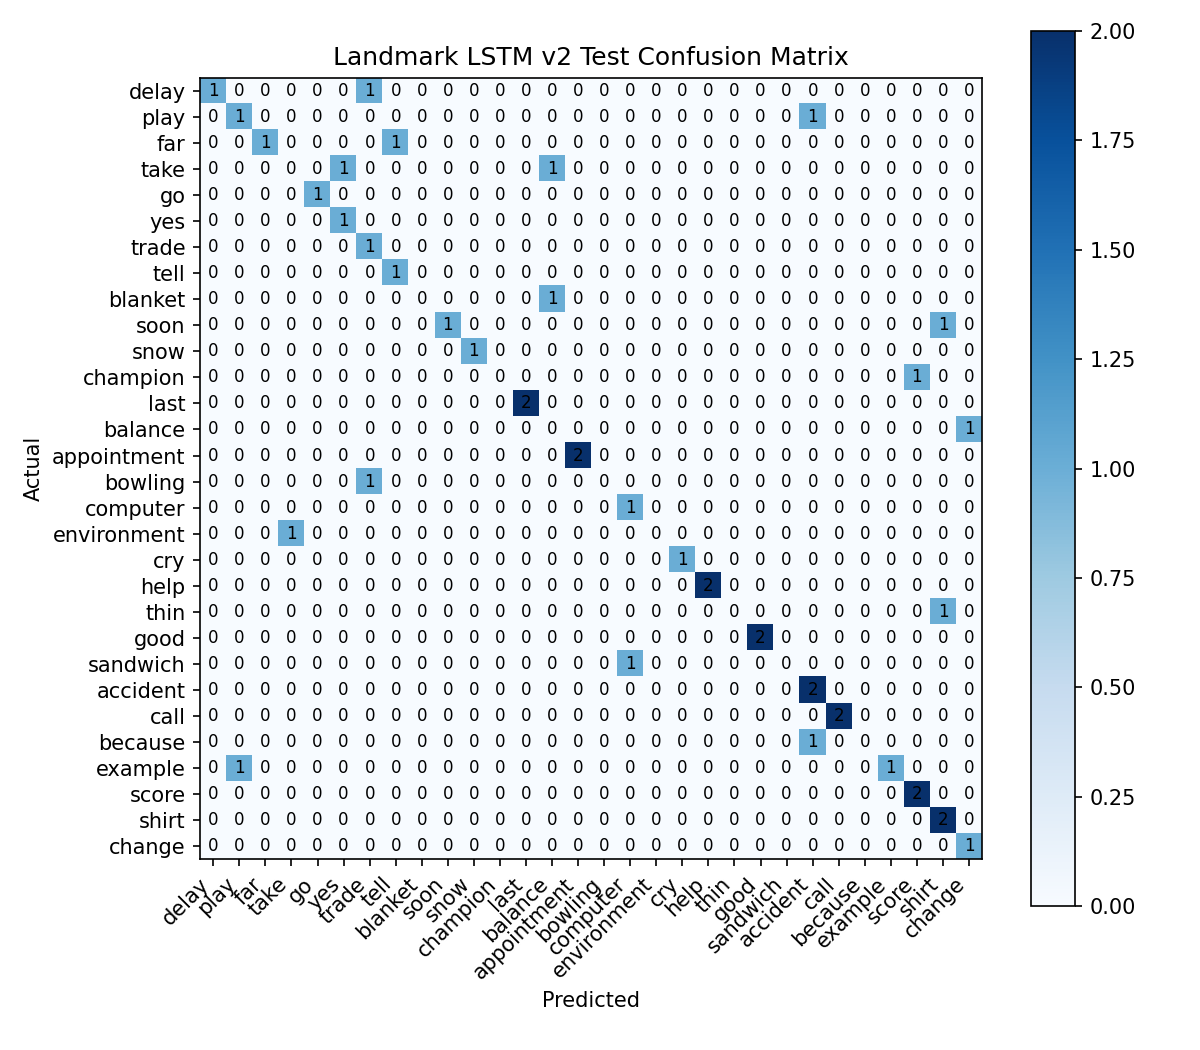
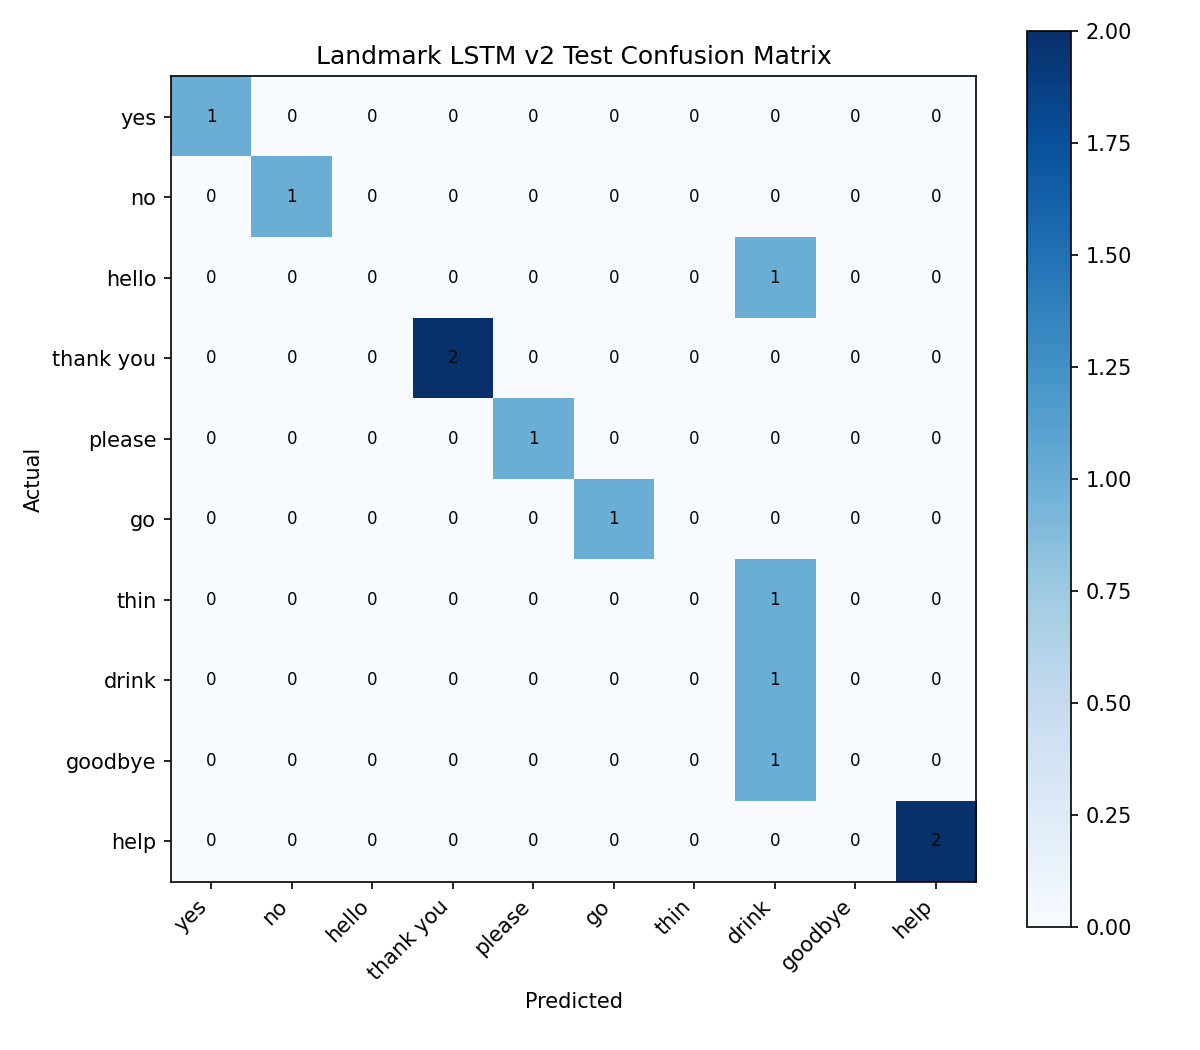
Train 10-class landmark models

diff --git a/preprocess.py b/preprocess.py
@@ -82,43 +82,34 @@ def main():
     dataset_json = json.load(f)
 
   # ==========================================
-  # 1. DYNAMIC DATA MINING (Forcing Yes/No)
+  # 1. FIXED CLASS SET
   # ==========================================
-  REQUIRED_WORDS = ['yes', 'no', 'hello']
-  other_word_counts = []
-  required_entries = []
+  target_words = list(config.LANDMARK_V2_DEFAULT_CLASSES)
+  target_word_set = set(target_words)
+  target_entries_by_gloss = {}
 
   for entry in dataset_json:
     gloss = entry['gloss']
-    # Count how many of this word's instances actually exist in your folder
+    if gloss not in target_word_set:
+      continue
+
     existing_instances = [
       inst for inst in entry['instances'] if os.path.exists(
         os.path.join(config.RAW_VIDEO_DIR, f"{inst['video_id']}.mp4"))
     ]
+    target_entries_by_gloss[gloss] = {
+      'gloss': gloss,
+      'count': len(existing_instances),
+      'instances': existing_instances
+    }
 
-    # If it's Yes or No, we save it immediately
-    if gloss in REQUIRED_WORDS:
-      required_entries.append(
-        {
-          'gloss': gloss,
-          'count': len(existing_instances),
-          'instances': existing_instances
-        })
-    # Otherwise, we put it in the pool for the top 8
-    elif len(existing_instances) >= 10:
-      other_word_counts.append(
-        {
-          'gloss': gloss,
-          'count': len(existing_instances),
-          'instances': existing_instances
-        })
+  missing_words = [
+    word for word in target_words if word not in target_entries_by_gloss
+  ]
+  if missing_words:
+    raise ValueError(f"Missing requested words in WLASL metadata: {missing_words}")
 
-  # Sort the pool by popularity and take the top 8 to fill the 10-word limit
-  other_word_counts.sort(key=lambda x: x['count'], reverse=True)
-  target_entries = required_entries + other_word_counts[:7]
-
-  # Sort alphabetically so the indexes stay consistent
-  target_entries.sort(key=lambda x: x['gloss'])
+  target_entries = [target_entries_by_gloss[word] for word in target_words]
 
   all_glosses = [e['gloss'] for e in target_entries]
   word_to_int = {word: i for i, word in enumerate(all_glosses)}

diff --git a/config.py b/config.py
@@ -60,36 +60,16 @@ LANDMARK_V2_SEQUENCE_LENGTH = 45
 LANDMARK_V2_TOP_K_CLASSES = 30
 LANDMARK_V2_MIN_VALID_FRAME_RATIO = 0.35
 LANDMARK_V2_DEFAULT_CLASSES = [
-  'delay',
-  'play',
-  'far',
-  'take',
-  'go',
   'yes',
-  'trade',
-  'tell',
-  'blanket',
-  'soon',
-  'snow',
-  'champion',
-  'last',
-  'balance',
-  'appointment',
-  'bowling',
-  'computer',
-  'environment',
-  'cry',
-  'help',
+  'no',
+  'hello',
+  'thank you',
+  'please',
+  'go',
   'thin',
-  'good',
-  'sandwich',
-  'accident',
-  'call',
-  'because',
-  'example',
-  'score',
-  'shirt',
-  'change',
+  'drink',
+  'goodbye',
+  'help',
 ]
 
 # ==========================================

diff --git a/train.py b/train.py
@@ -160,7 +160,7 @@ def train():
   plt.tight_layout()
   plt.savefig(config.PERFORMANCE_PLOT_PATH)
   print(f"📊 Performance plot saved to {config.PERFORMANCE_PLOT_PATH}")
-  plt.show()
+  plt.close()
 
 
 if __name__ == "__main__":